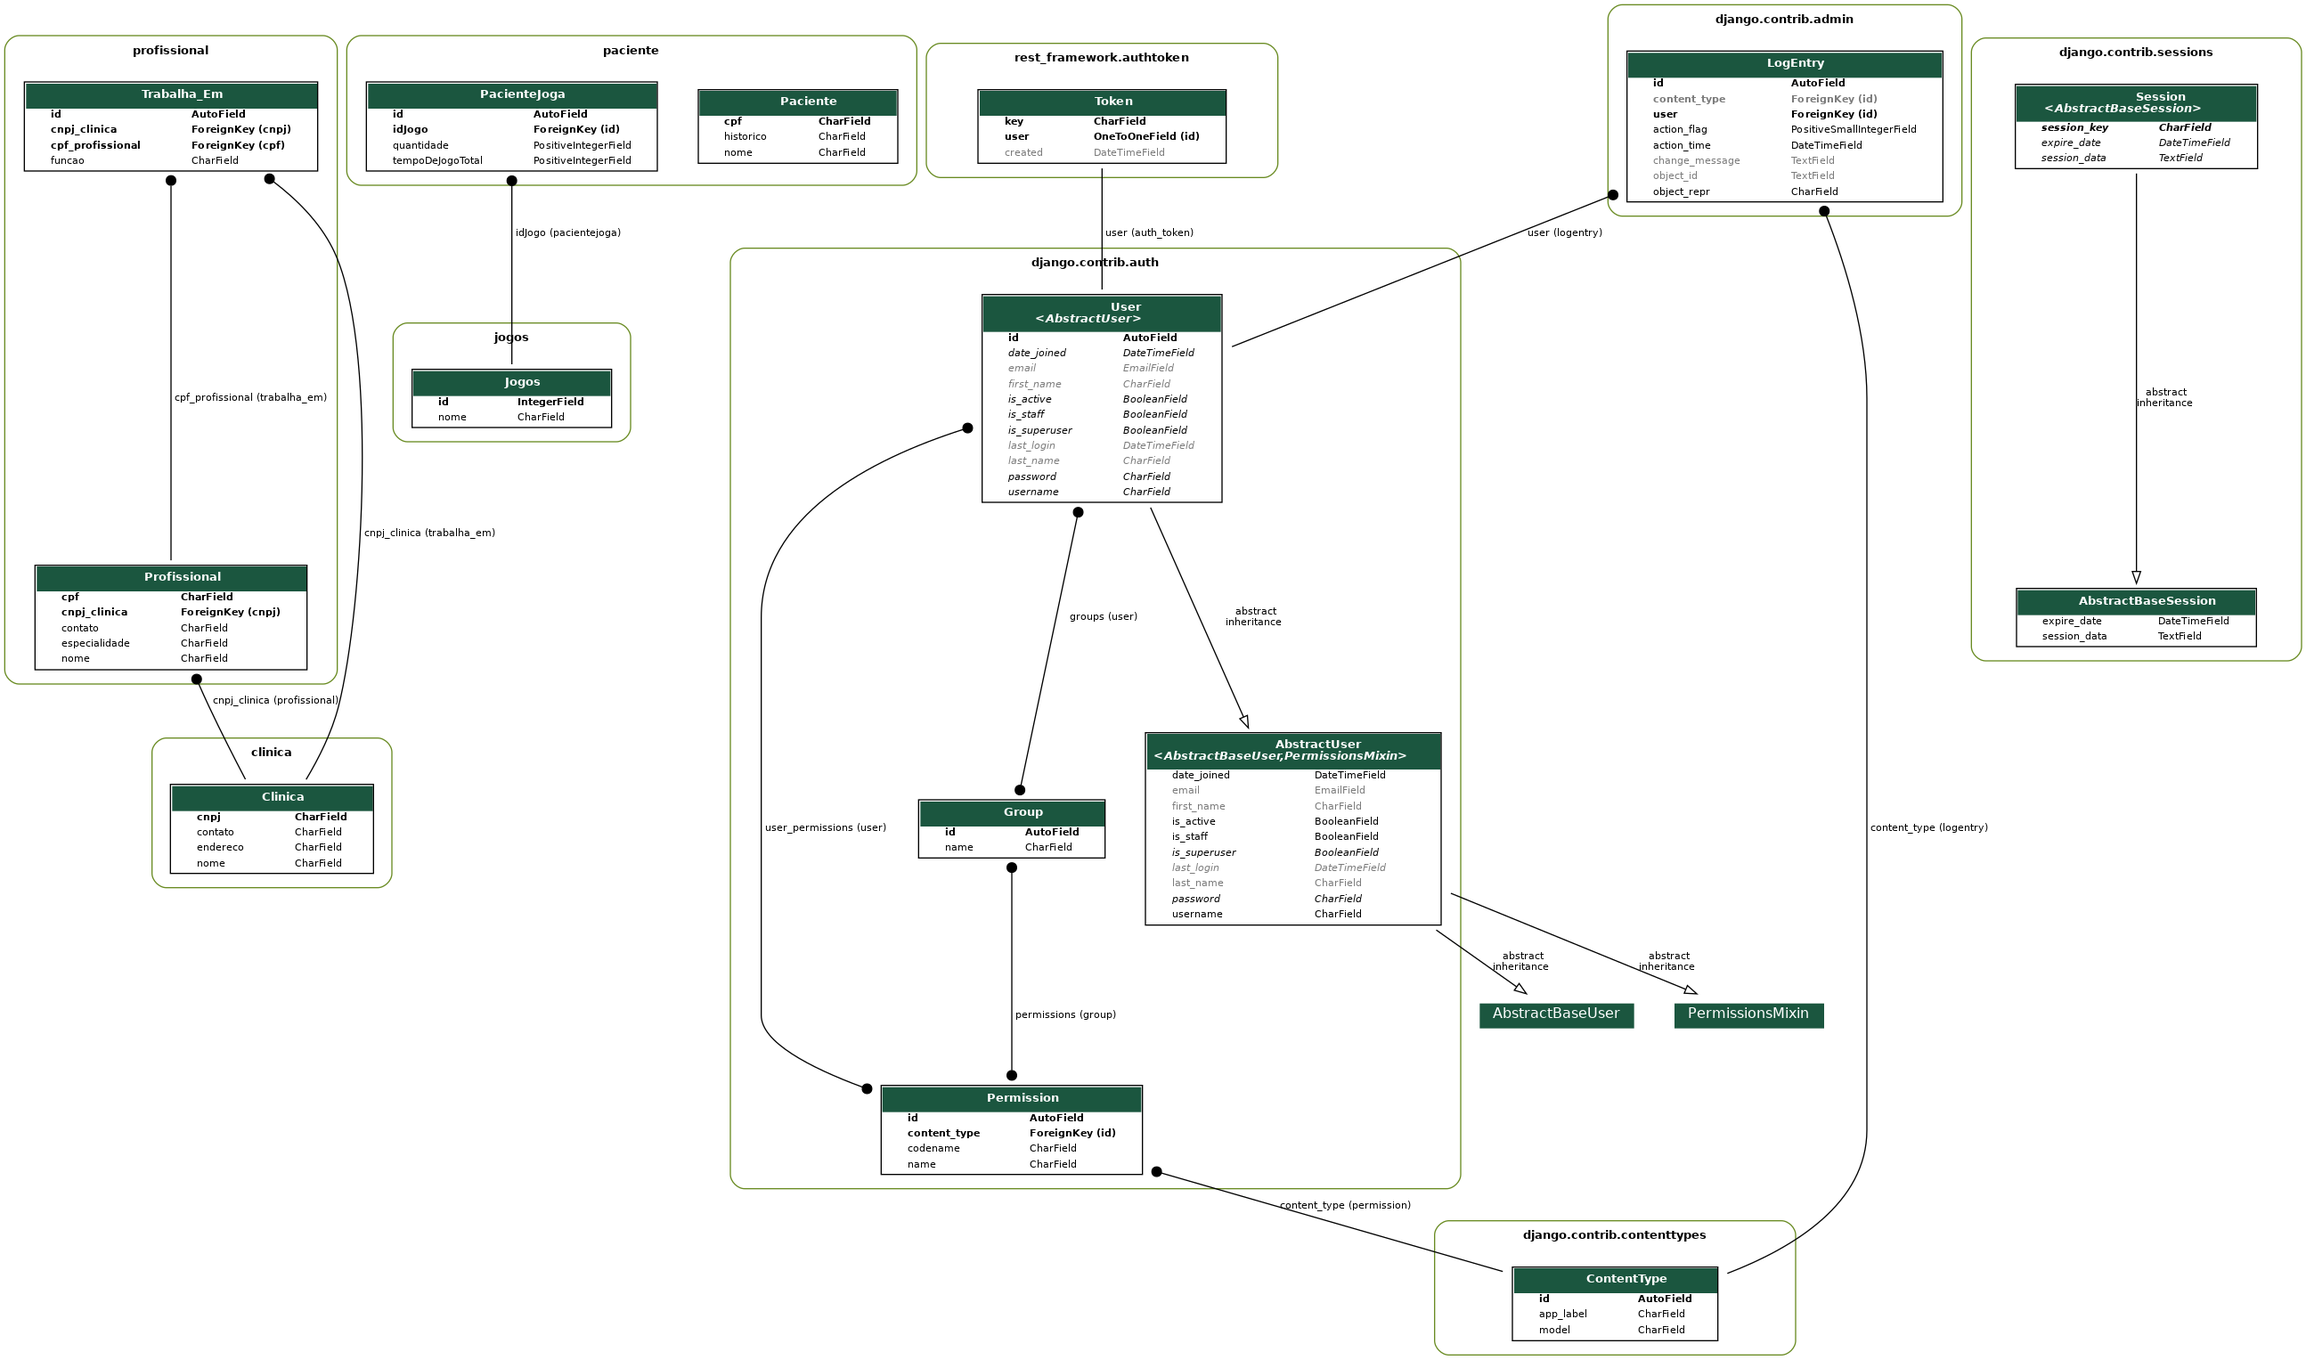
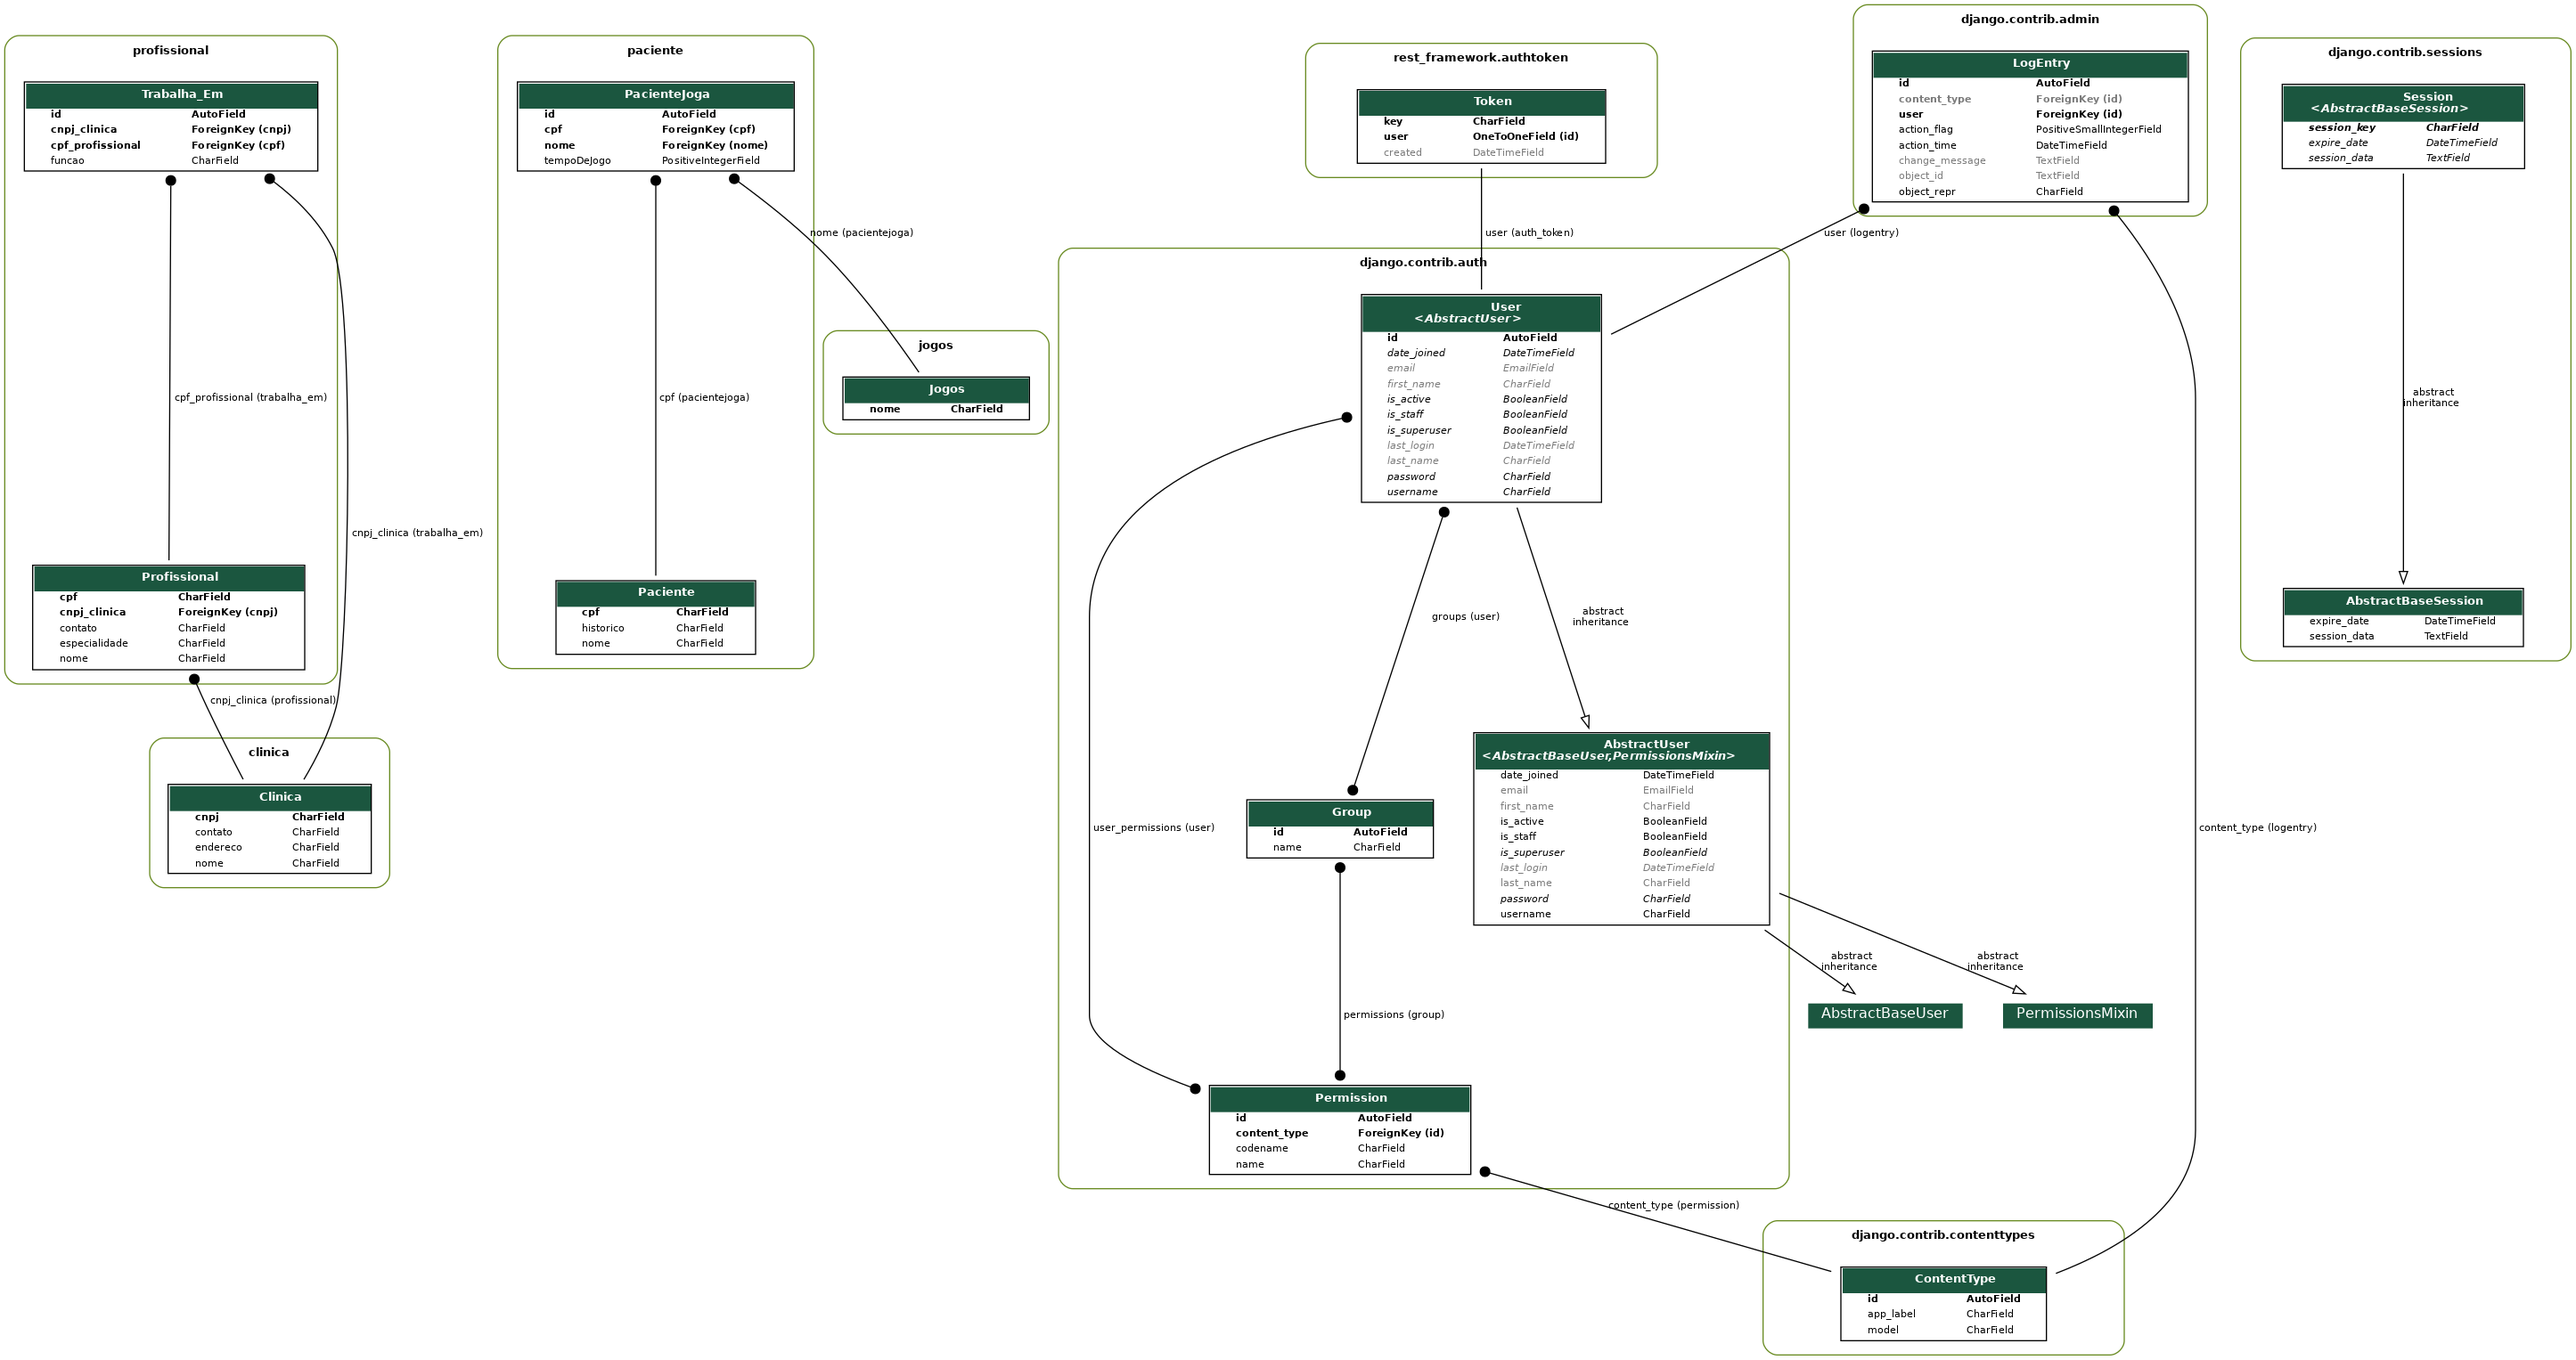
POST e GET para jogos do Paciente + várias modificações no banco

diff --git a/restApi/views.py b/restApi/views.py
@@ -1,25 +1,52 @@
 from django.shortcuts import render
-import paciente.models
 from rest_framework.decorators import api_view
 from rest_framework import viewsets
 from rest_framework.response import Response
 from rest_framework import status
-from restApi.serializers import PacienteSerializer
+from restApi.serializers import PacienteSerializer,PacienteJogaSerializer
+from restApi.serializers import JogosSerializer
+import paciente.models
+# import jogos.models
 
-# Create your views here.
+# Retorna todos os pacientes
 class PacienteViewSet(viewsets.ModelViewSet):
 	queryset = paciente.models.Paciente.objects.all()
 	serializer_class = PacienteSerializer
 
-	# def post(self, request):
-	# 	print(queryset.data)
-	# 	return Response({"id": 'PacienteViewSet', "data": '1234'})
+@api_view(['GET', 'POST', 'PUT', 'DELETE'])
+def paciente_joga(request):
+	if request.method == 'GET':
+		if request.method == 'GET':
+			if request.GET.get('cpf', '') == '':
+				return Response(status=status.HTTP_400_BAD_REQUEST)
+		pessoaJoga = paciente.models.PacienteJoga.objects.raw('SELECT id,tempoDejogo,cpf_id,nome_id FROM paciente_pacientejoga WHERE cpf_id = ' + request.GET.get('cpf', ''))
+		serializer = PacienteJogaSerializer(pessoaJoga, many=True)
+		return Response(serializer.data)
+
+	elif request.method == 'POST':
+		serializer = PacienteJogaSerializer(data=request.data)
+		if serializer.is_valid():
+			serializer.save()
+			return Response(serializer.data, status=status.HTTP_201_CREATED)
+		return Response(serializer.errors, status=status.HTTP_400_BAD_REQUEST)
+
+	elif request.method == 'PUT':
+		print("ola")
+	elif request.method == 'DELETE':
+		print("ola")
+
 
 @api_view(['GET','POST'])
 def jogo_detail(request):
 	if request.method == 'GET':
-		pessoa = paciente.models.Paciente.objects.raw('SELECT cpf,nome FROM paciente_paciente WHERE nome = "Menino"')
-		serializer = PacienteSerializer(pessoa, many=True)
+		if request.GET.get('cpf', '') == '':
+			return Response(status=status.HTTP_400_BAD_REQUEST)
+		pessoaJoga = paciente.models.PacienteJoga.objects.raw('SELECT id,tempoDejogo,cpf_id,nome_id FROM paciente_pacientejoga WHERE cpf_id = ' + request.GET.get('cpf', ''))
+		# pessoa = paciente.models.Paciente.objects.raw('SELECT id,tempoDejogo,cpf_id,nome_id FROM paciente_pacientejoga WHERE id = 1')
+		# + request.GET.get('cpf', '')
+		# jogos = jogos.models.Jogos.objects.all()
+		
+		serializer = PacienteJogaSerializer(pessoaJoga, many=True)
 		return Response(serializer.data)
 	elif request.method == 'POST':
 		serializer = PacienteSerializer(data=request.data)

diff --git a/paciente/migrations/0001_initial.py b/paciente/migrations/0001_initial.py
@@ -1,6 +1,7 @@
-# Generated by Django 2.1.2 on 2018-10-18 12:26
+# Generated by Django 2.2.2 on 2019-06-18 12:35
 
 from django.db import migrations, models
+import django.db.models.deletion
 
 
 class Migration(migrations.Migration):
@@ -8,6 +9,7 @@ class Migration(migrations.Migration):
     initial = True
 
     dependencies = [
+        ('jogos', '0001_initial'),
     ]
 
     operations = [
@@ -18,5 +20,17 @@ class Migration(migrations.Migration):
                 ('nome', models.CharField(max_length=45)),
                 ('historico', models.CharField(max_length=45)),
             ],
+        ),
+        migrations.CreateModel(
+            name='PacienteJoga',
+            fields=[
+                ('id', models.AutoField(auto_created=True, primary_key=True, serialize=False, verbose_name='ID')),
+                ('tempoDeJogo', models.PositiveIntegerField()),
+                ('cpf', models.ForeignKey(default='Null', on_delete=django.db.models.deletion.CASCADE, to='paciente.Paciente')),
+                ('nome', models.ForeignKey(on_delete=django.db.models.deletion.CASCADE, to='jogos.Jogos')),
+            ],
+            options={
+                'unique_together': {('nome', 'cpf')},
+            },
         ),
     ]

diff --git a/restApi/serializers.py b/restApi/serializers.py
@@ -1,13 +1,21 @@
 # from django.contrib.auth.models import User
-from paciente.models import Paciente
+# from paciente.models import Paciente
+from paciente.models import Paciente, PacienteJoga
+from jogos.models import Jogos
 from rest_framework import serializers
 
-# class UserSerializer(serializers.HyperlinkedModelSerializer):
-# 	class Meta:
-# 		model = User
-# 		fields = ('url', 'username', 'email')
+class JogosSerializer(serializers.ModelSerializer):
+	class Meta:
+		model = Jogos
+		fields = ('id', 'nome')
 
 class PacienteSerializer(serializers.ModelSerializer):
 	class Meta:
 		model = Paciente
 		fields = ('cpf', 'nome')
+
+class PacienteJogaSerializer(serializers.ModelSerializer):
+	class Meta:
+		model = PacienteJoga
+		fields = ('id', 'tempoDeJogo', 'cpf', 'nome')
+

diff --git a/jogos/migrations/0001_initial.py b/jogos/migrations/0001_initial.py
@@ -1,4 +1,4 @@
-# Generated by Django 2.2.2 on 2019-06-12 13:29
+# Generated by Django 2.2.2 on 2019-06-18 12:35
 
 from django.db import migrations, models
 
@@ -14,8 +14,7 @@ class Migration(migrations.Migration):
         migrations.CreateModel(
             name='Jogos',
             fields=[
-                ('id', models.IntegerField(primary_key=True, serialize=False)),
-                ('nome', models.CharField(max_length=45)),
+                ('nome', models.CharField(max_length=45, primary_key=True, serialize=False)),
             ],
         ),
     ]

diff --git a/paciente/models.py b/paciente/models.py
@@ -10,6 +10,9 @@ class Paciente(models.Model):
 		return self.nome
 
 class PacienteJoga(models.Model):
-	idJogo = models.ForeignKey(Jogos, on_delete=models.CASCADE)
-	quantidade = models.PositiveIntegerField()
-	tempoDeJogoTotal = models.PositiveIntegerField()
+	class Meta:
+		unique_together = ('nome', 'cpf')
+
+	nome = models.ForeignKey(Jogos, on_delete=models.CASCADE)
+	cpf = models.ForeignKey(Paciente, on_delete=models.CASCADE, default="Null")
+	tempoDeJogo = models.PositiveIntegerField()

diff --git a/jogos/models.py b/jogos/models.py
@@ -1,8 +1,7 @@
 from django.db import models
 
 class Jogos(models.Model):
-    id = models.IntegerField(primary_key=True)
-    nome = models.CharField(max_length = 45)
+    nome = models.CharField(max_length = 45, primary_key=True)
 
     def __str__(self):
         return self.nome

diff --git a/restApi/urlsApi.py b/restApi/urlsApi.py
@@ -9,6 +9,6 @@ router.register(r'api', views.PacienteViewSet)
 
 urlApiPattern = [
 	path('api-token/', viewsToken.obtain_auth_token, name='api-token-auth'),
-	path('api-send/', views.jogo_detail)
+	path('api-jogos/', views.paciente_joga)
 ]
 urlApiPattern += router.urls

diff --git a/teoweb/settings.py b/teoweb/settings.py
@@ -37,6 +37,7 @@ INSTALLED_APPS = [
     'django.contrib.sessions',
     'django.contrib.messages',
     'django.contrib.staticfiles',
+    'django_extensions',
     'teoweb',
     'restApi',
     'usuario',

diff --git a/profissional/migrations/0001_initial.py b/profissional/migrations/0001_initial.py
@@ -1,4 +1,4 @@
-# Generated by Django 2.1.2 on 2018-10-18 23:15
+# Generated by Django 2.2.2 on 2019-06-18 12:35
 
 from django.db import migrations, models
 import django.db.models.deletion

diff --git a/clinica/migrations/0001_initial.py b/clinica/migrations/0001_initial.py
@@ -1,4 +1,4 @@
-# Generated by Django 2.1.2 on 2018-10-17 17:05
+# Generated by Django 2.2.2 on 2019-06-18 12:35
 
 from django.db import migrations, models
 
